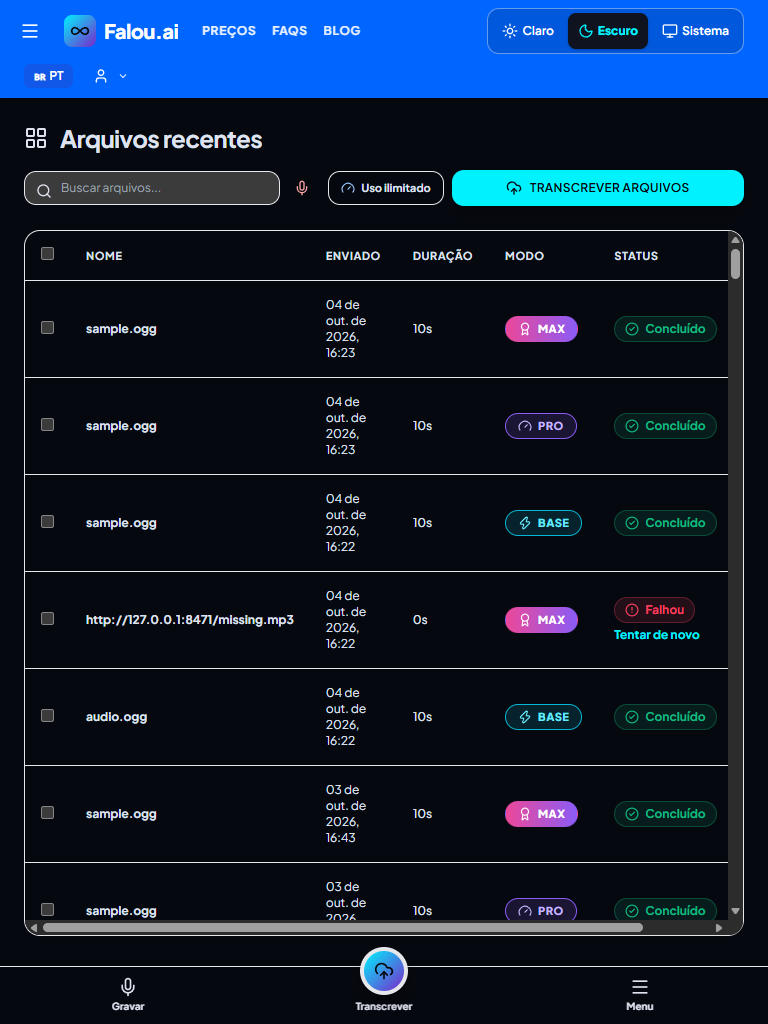
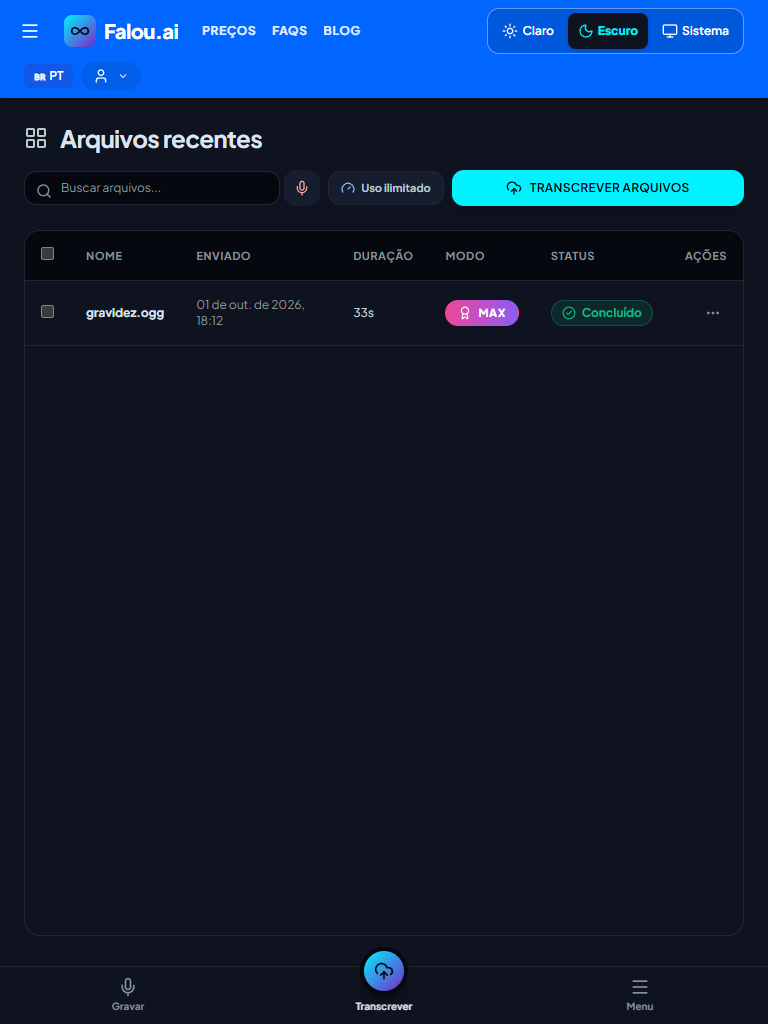
fix(t-29): corrige colors duplicado no tailwind config (menus transparentes), menu do usuario por clique/toque, suite auto-limpa transcricoes de teste

diff --git a/tests/diag_ui_break.js b/tests/diag_ui_break.js
@@ -1,0 +1,96 @@
+// Diagnóstico do bug reportado: menus transparentes / cliques não abrem.
+// Carrega /app, captura erros de console, testa cliques nos menus e mede
+// o fundo computado do dropdown do usuário e de outros painéis.
+const path = require('path');
+const { spawn } = require('child_process');
+const fs = require('fs');
+
+const BASE = 'http://localhost:3000';
+const DEBUG = 'http://localhost:9334';
+const ADMIN_PASSWORD = process.env.ADMIN_PASSWORD || 'admin123';
+const EDGE = 'C:/Program Files (x86)/Microsoft/Edge/Application/msedge.exe';
+const sleep = ms => new Promise(r => setTimeout(r, ms));
+
+async function main() {
+  const loginRes = await fetch(`${BASE}/api/auth/login`, {
+    method: 'POST', headers: { 'Content-Type': 'application/json' },
+    body: JSON.stringify({ email: 'admin@turboscribe.local', password: ADMIN_PASSWORD })
+  });
+  const { token } = await loginRes.json();
+  if (!token) throw new Error('login falhou');
+
+  const edge = spawn(EDGE, ['--headless=new', '--remote-debugging-port=9334', '--user-data-dir=' + path.join(__dirname, '..', '.edge-diag-profile'), '--no-first-run', 'about:blank'], { stdio: 'ignore' });
+  let targets;
+  for (let i = 0; i < 40; i++) {
+    try { targets = await (await fetch(`${DEBUG}/json/list`)).json(); if (targets && targets.length) break; } catch (_) {}
+    await sleep(500);
+  }
+  const page = targets.find(t => t.type === 'page');
+  const ws = new WebSocket(page.webSocketDebuggerUrl);
+  await new Promise((res, rej) => { ws.onopen = res; ws.onerror = rej; });
+  let seq = 0; const pending = new Map(); const consoleMsgs = [];
+  ws.onmessage = ev => {
+    const m = JSON.parse(ev.data);
+    if (m.id && pending.has(m.id)) { pending.get(m.id)(m); pending.delete(m.id); }
+    if (m.method === 'Runtime.consoleAPICalled' && (m.params.type === 'error' || m.params.type === 'warning'))
+      consoleMsgs.push(m.params.type + ': ' + m.params.args.map(a => a.value || a.description || '').join(' '));
+    if (m.method === 'Runtime.exceptionThrown')
+      consoleMsgs.push('EXCEPTION: ' + JSON.stringify(m.params.exceptionDetails.exception?.description || m.params.exceptionDetails.text));
+  };
+  const send = (method, params = {}) => new Promise(res => { const id = ++seq; pending.set(id, res); ws.send(JSON.stringify({ id, method, params })); });
+  const evalJs = async (expr) => {
+    const r = await send('Runtime.evaluate', { expression: expr, awaitPromise: true, returnByValue: true });
+    if (r.result && r.result.exceptionDetails) return 'ERRO-JS: ' + JSON.stringify(r.result.exceptionDetails.exception?.description || r.result.exceptionDetails.text);
+    return r.result && r.result.result ? r.result.result.value : undefined;
+  };
+  await send('Page.enable'); await send('Runtime.enable');
+
+  // SEM tema forçado (como o usuário usa) e COM tema claro, como no screenshot
+  for (const theme of ['light', 'dark']) {
+    await send('Emulation.setDeviceMetricsOverride', { width: 1280, height: 800, deviceScaleFactor: 1, mobile: false });
+    await send('Page.navigate', { url: `${BASE}/app?nocache=${Date.now()}` });
+    await sleep(2500);
+    await evalJs(`localStorage.setItem('turboscribe_token', ${JSON.stringify(token)}); localStorage.setItem('transcreveai_theme', '${theme}'); location.reload(); 'ok'`);
+    await sleep(3500);
+
+    const diag = await evalJs(`(() => {
+      const drop = document.querySelector('#user-menu-btn')?.closest('.group')?.querySelector('.absolute');
+      const cs = drop ? getComputedStyle(drop) : null;
+      const sidebar = document.getElementById('app-sidebar');
+      const cssOk = getComputedStyle(document.documentElement).getPropertyValue('--surface').trim();
+      const rows = document.querySelectorAll('#transcriptions-tbody tr').length;
+      const cards = document.querySelectorAll('#transcriptions-cards > div').length;
+      return {
+        tema: document.documentElement.classList.contains('dark') ? 'dark' : 'light',
+        cssVarsOk: cssOk || 'VAZIO',
+        dropdownBg: cs ? cs.backgroundColor : 'nao-achou-dropdown',
+        dropdownDisplay: cs ? cs.display : '-',
+        sidebarExiste: !!sidebar,
+        linhasTabela: rows, cardsMobile: cards,
+        jsOk: typeof openSidebar === 'function' && typeof showView === 'function' && typeof openTranscribeModal === 'function',
+        lucideOk: typeof lucide !== 'undefined'
+      };
+    })()`);
+    console.log(`[${theme}]`, JSON.stringify(diag, null, 1));
+
+    // testa cliques reais
+    const clickTest = await evalJs(`(() => {
+      const out = {};
+      try { document.getElementById('user-menu-btn').click(); out.userMenuClick = 'ok'; } catch (e) { out.userMenuClick = e.message; }
+      const drop = document.querySelector('#user-menu-btn')?.closest('.group')?.querySelector('.absolute');
+      out.dropVisibleAfterClick = drop ? getComputedStyle(drop).display : 'nao-achou';
+      try { openSidebar(); out.openSidebar = 'ok'; } catch (e) { out.openSidebar = 'ERR ' + e.message; }
+      const sb = document.getElementById('app-sidebar');
+      out.sidebarState = sb ? sb.className.slice(0, 80) : 'nao-achou';
+      try { showView('admin'); out.showViewAdmin = document.getElementById('view-admin')?.classList.contains('hidden') ? 'oculto' : 'visivel'; } catch (e) { out.showViewAdmin = 'ERR ' + e.message; }
+      try { showView('dashboard'); } catch (_) {}
+      return out;
+    })()`);
+    console.log(`[${theme}] cliques:`, JSON.stringify(clickTest, null, 1));
+  }
+
+  console.log('--- console errors/warnings ---');
+  consoleMsgs.slice(0, 15).forEach(m => console.log(m));
+  ws.close(); edge.kill(); console.log('DONE'); process.exit(0);
+}
+main().catch(e => { console.error('ERRO:', e.message); process.exit(1); });

diff --git a/tests/diag_hover.js b/tests/diag_hover.js
@@ -1,0 +1,65 @@
+// Diagnóstico 2: hover real no menu do usuário (Input.dispatchMouseEvent),
+// mede fundo computado e tira screenshot. Também testa toque no mobile.
+const path = require('path');
+const { spawn } = require('child_process');
+const BASE = 'http://localhost:3000';
+const DEBUG = 'http://localhost:9334';
+const ADMIN_PASSWORD = process.env.ADMIN_PASSWORD || 'admin123';
+const EDGE = 'C:/Program Files (x86)/Microsoft/Edge/Application/msedge.exe';
+const sleep = ms => new Promise(r => setTimeout(r, ms));
+
+async function main() {
+  const loginRes = await fetch(`${BASE}/api/auth/login`, {
+    method: 'POST', headers: { 'Content-Type': 'application/json' },
+    body: JSON.stringify({ email: 'admin@turboscribe.local', password: ADMIN_PASSWORD })
+  });
+  const { token } = await loginRes.json();
+  if (!token) throw new Error('login falhou');
+
+  const edge = spawn(EDGE, ['--headless=new', '--remote-debugging-port=9334', '--user-data-dir=' + path.join(__dirname, '..', '.edge-diag2-profile'), '--no-first-run', 'about:blank'], { stdio: 'ignore' });
+  let targets;
+  for (let i = 0; i < 40; i++) {
+    try { targets = await (await fetch(`${DEBUG}/json/list`)).json(); if (targets && targets.length) break; } catch (_) {}
+    await sleep(500);
+  }
+  const page = targets.find(t => t.type === 'page');
+  const ws = new WebSocket(page.webSocketDebuggerUrl);
+  await new Promise((res, rej) => { ws.onopen = res; ws.onerror = rej; });
+  let seq = 0; const pending = new Map();
+  ws.onmessage = ev => { const m = JSON.parse(ev.data); if (m.id && pending.has(m.id)) { pending.get(m.id)(m); pending.delete(m.id); } };
+  const send = (method, params = {}) => new Promise(res => { const id = ++seq; pending.set(id, res); ws.send(JSON.stringify({ id, method, params })); });
+  const evalJs = async (expr) => {
+    const r = await send('Runtime.evaluate', { expression: expr, awaitPromise: true, returnByValue: true });
+    if (r.result && r.result.exceptionDetails) return 'ERRO-JS: ' + (r.result.exceptionDetails.exception?.description || r.result.exceptionDetails.text);
+    return r.result && r.result.result ? r.result.result.value : undefined;
+  };
+  const shot = async (name) => {
+    const r = await send('Page.captureScreenshot', { format: 'png' });
+    require('fs').writeFileSync(path.join(__dirname, '..', 'docs', 'screenshots', name), Buffer.from(r.result.data, 'base64'));
+    console.log('salvo:', name);
+  };
+  await send('Page.enable'); await send('Runtime.enable');
+
+  await send('Emulation.setDeviceMetricsOverride', { width: 1280, height: 800, deviceScaleFactor: 1, mobile: false });
+  await send('Page.navigate', { url: `${BASE}/app?nocache=${Date.now()}` });
+  await sleep(2500);
+  await evalJs(`localStorage.setItem('turboscribe_token', ${JSON.stringify(token)}); localStorage.setItem('transcreveai_theme', 'light'); location.reload(); 'ok'`);
+  await sleep(3500);
+
+  // posição do botão do menu
+  const rect = await evalJs(`(() => { const b = document.getElementById('user-menu-btn').getBoundingClientRect(); return { x: b.x + b.width / 2, y: b.y + b.height / 2 }; })()`);
+  console.log('btn em', JSON.stringify(rect));
+  // hover real
+  await send('Input.dispatchMouseEvent', { type: 'mouseMoved', x: rect.x, y: rect.y });
+  await sleep(1200);
+  const st = await evalJs(`(() => {
+    const drop = document.querySelector('#user-menu-btn').closest('.group').querySelector('.absolute');
+    const cs = getComputedStyle(drop);
+    return { display: cs.display, bg: cs.backgroundColor, hasClassBg: drop.className.includes('bg-brand-surface'), classes: drop.className };
+  })()`);
+  console.log('dropdown no hover:', JSON.stringify(st, null, 1));
+  await shot('diag-hover-usermenu.png');
+
+  ws.close(); edge.kill(); console.log('DONE'); process.exit(0);
+}
+main().catch(e => { console.error('ERRO:', e.message); process.exit(1); });

diff --git a/tests/diag_css_rule.js b/tests/diag_css_rule.js
@@ -1,0 +1,56 @@
+// Diagnóstico 3: inspeciona a regra .bg-brand-surface gerada pelo Tailwind CDN.
+const path = require('path');
+const { spawn } = require('child_process');
+const BASE = 'http://localhost:3000';
+const DEBUG = 'http://localhost:9334';
+const ADMIN_PASSWORD = process.env.ADMIN_PASSWORD || 'admin123';
+const EDGE = 'C:/Program Files (x86)/Microsoft/Edge/Application/msedge.exe';
+const sleep = ms => new Promise(r => setTimeout(r, ms));
+
+async function main() {
+  const loginRes = await fetch(`${BASE}/api/auth/login`, {
+    method: 'POST', headers: { 'Content-Type': 'application/json' },
+    body: JSON.stringify({ email: 'admin@turboscribe.local', password: ADMIN_PASSWORD })
+  });
+  const { token } = await loginRes.json();
+  const edge = spawn(EDGE, ['--headless=new', '--remote-debugging-port=9334', '--user-data-dir=' + path.join(__dirname, '..', '.edge-diag3-profile'), '--no-first-run', 'about:blank'], { stdio: 'ignore' });
+  let targets;
+  for (let i = 0; i < 40; i++) {
+    try { targets = await (await fetch(`${DEBUG}/json/list`)).json(); if (targets && targets.length) break; } catch (_) {}
+    await sleep(500);
+  }
+  const page = targets.find(t => t.type === 'page');
+  const ws = new WebSocket(page.webSocketDebuggerUrl);
+  await new Promise((res, rej) => { ws.onopen = res; ws.onerror = rej; });
+  let seq = 0; const pending = new Map();
+  ws.onmessage = ev => { const m = JSON.parse(ev.data); if (m.id && pending.has(m.id)) { pending.get(m.id)(m); pending.delete(m.id); } };
+  const send = (method, params = {}) => new Promise(res => { const id = ++seq; pending.set(id, res); ws.send(JSON.stringify({ id, method, params })); });
+  const evalJs = async (expr) => {
+    const r = await send('Runtime.evaluate', { expression: expr, awaitPromise: true, returnByValue: true });
+    if (r.result && r.result.exceptionDetails) return 'ERRO: ' + (r.result.exceptionDetails.exception?.description || '');
+    return r.result && r.result.result ? r.result.result.value : undefined;
+  };
+  await send('Page.enable'); await send('Runtime.enable');
+  await send('Emulation.setDeviceMetricsOverride', { width: 1280, height: 800, deviceScaleFactor: 1, mobile: false });
+  await send('Page.navigate', { url: `${BASE}/app?nocache=${Date.now()}` });
+  await sleep(2500);
+  await evalJs(`localStorage.setItem('turboscribe_token', ${JSON.stringify(token)}); location.reload(); 'ok'`);
+  await sleep(4000);
+
+  const rules = await evalJs(`(() => {
+    const out = [];
+    for (const sheet of document.styleSheets) {
+      let rules;
+      try { rules = sheet.cssRules; } catch (e) { continue; }
+      for (const r of rules) {
+        if (r.selectorText && /brand-surface|brand-canvas/.test(r.selectorText) && !r.selectorText.includes('hover') && !r.selectorText.includes('dark')) {
+          out.push(r.cssText.slice(0, 200));
+        }
+      }
+    }
+    return out.slice(0, 10);
+  })()`);
+  console.log(JSON.stringify(rules, null, 1));
+  ws.close(); edge.kill(); process.exit(0);
+}
+main().catch(e => { console.error('ERRO:', e.message); process.exit(1); });

diff --git a/test_suite.js b/test_suite.js
@@ -355,6 +355,10 @@ async function runTestSuite() {
       res.end('not found');
     }
   });
+  // IDs de transcrições criadas pela suíte — deletadas no final para não
+  // poluir o dashboard do admin (acumulavam ~4 arquivos por execução)
+  const createdTranscriptionIds = [];
+
   await new Promise(r => mockServer.listen(8471, '127.0.0.1', r));
 
   try {
@@ -368,6 +372,7 @@ async function runTestSuite() {
     assert(okRes.status === 202 && okData.data && okData.data[0] && okData.data[0].status === 'pending',
       `POST /api/transcribe/url enfileirou o link (status: ${okRes.status})`);
     if (okData.data && okData.data[0]) {
+      createdTranscriptionIds.push(okData.data[0].id);
       const finalStatus = await waitForCompletion(okData.data[0].id, 120000);
       assert(finalStatus === 'completed', `Transcrição por URL concluiu (status: ${finalStatus})`);
       const row = await getAsync(`SELECT file_name, raw_text FROM transcriptions WHERE id = ?`, [okData.data[0].id]);
@@ -385,6 +390,7 @@ async function runTestSuite() {
     assert(failRes.status === 202 && failData.data && failData.data[0] && failData.data[0].status === 'failed' && failData.data[0].error_message,
       `Falha de download virou linha 'failed' com error_message (status: ${failRes.status})`);
     if (failData.data && failData.data[0]) {
+      createdTranscriptionIds.push(failData.data[0].id);
       const frow = await getAsync(`SELECT status, error_message FROM transcriptions WHERE id = ?`, [failData.data[0].id]);
       assert(frow && frow.status === 'failed' && /404/.test(frow.error_message || ''),
         `error_message persiste no banco com a causa (${frow && frow.error_message})`);
@@ -514,8 +520,6 @@ async function runTestSuite() {
     { mode: 'pro', label: 'Nível 2 - Pro' },
     { mode: 'max', label: 'Nível 3 - Max' }
   ];
-
-  const createdTranscriptionIds = [];
 
   for (const m of modes) {
     try {
@@ -914,6 +918,19 @@ async function runTestSuite() {
   try {
     await runAsync(`DELETE FROM users WHERE email = 'suite-user@test.local'`);
   } catch (e) { /* usuário já removido ou ausente */ }
+
+  // Limpar transcrições criadas pela suíte (dashboard do admin fica limpo)
+  for (const tid of createdTranscriptionIds) {
+    try {
+      await fetch(`${BASE_URL}/api/transcriptions/${tid}`, {
+        method: 'DELETE',
+        headers: { 'Authorization': `Bearer ${adminToken}` }
+      });
+    } catch (_) { /* melhor esforço */ }
+  }
+  if (createdTranscriptionIds.length) {
+    console.log(`🧹 Suíte removeu ${createdTranscriptionIds.length} transcrição(ões) de teste.`);
+  }
 
   console.log('\n=======================================================');
   console.log(`📊 RESULTADO FINAL: ${passedTests}/${totalTests} TESTES PASSARAM COM SUCESSO!`);

diff --git a/index.html b/index.html
@@ -114,17 +114,15 @@
               line: 'rgb(var(--line) / <alpha-value>)',
               accent: 'rgb(var(--accent) / <alpha-value>)',
               accentSoft: 'rgb(var(--accent-soft) / <alpha-value>)'
-            }
-          },
-          fontFamily: { sans: ['"Plus Jakarta Sans"', 'Inter', 'sans-serif'] },
-          borderRadius: { '4xl': '2rem' },
-          colors: {
+            },
             wave: {
               cyan: '#00F2FE', cyanDark: '#00A6B0', violet: '#7928CA',
               emerald: '#10B981', amber: '#F59E0B', coral: '#F43F5E',
               magenta: '#EC4899', electric: '#8B5CF6', velocity: '#06B6D4'
             }
-          }
+          },
+          fontFamily: { sans: ['"Plus Jakarta Sans"', 'Inter', 'sans-serif'] },
+          borderRadius: { '4xl': '2rem' }
         }
       }
     }
@@ -206,15 +204,16 @@
         <span>PT</span>
       </div>
 
-      <!-- Menu do Usuário / Admin -->
+      <!-- Menu do Usuário / Admin — T-29 F3: abre por clique/toque (o
+           group-hover puro não funciona em touch); hover continua no desktop -->
       <div class="relative group">
-        <button id="user-menu-btn" class="flex items-center space-x-2 text-xs font-medium bg-brand-surface/10 dark:bg-brand-surface/10 hover:bg-brand-surface/20 dark:hover:bg-brand-surface/20 px-3 py-1.5 rounded-full transition">
+        <button id="user-menu-btn" onclick="toggleUserMenu(event)" class="flex items-center space-x-2 text-xs font-medium bg-brand-surface/10 dark:bg-brand-surface/10 hover:bg-brand-surface/20 dark:hover:bg-brand-surface/20 px-3 py-1.5 rounded-full transition">
           <i data-lucide="user" class="w-4 h-4"></i>
           <span id="current-user-email" class="hidden lg:inline">pedro.leon23@gmail.com</span>
           <i data-lucide="chevron-down" class="w-3 h-3"></i>
         </button>
 
-        <div class="hidden group-hover:block absolute right-0 mt-1 w-64 bg-brand-surface dark:bg-brand-surface text-brand-ink dark:text-brand-ink text-sm rounded-xl shadow-xl border border-brand-line dark:border-brand-line overflow-hidden z-50">
+        <div id="user-menu-panel" class="hidden group-hover:block absolute right-0 mt-1 w-64 bg-brand-surface dark:bg-brand-surface text-brand-ink dark:text-brand-ink text-sm rounded-xl shadow-xl border border-brand-line dark:border-brand-line overflow-hidden z-50">
           <div class="p-3 border-b border-brand-line dark:border-brand-line bg-brand-canvas dark:bg-brand-canvas">
             <p class="font-bold text-xs text-brand-muted dark:text-brand-muted uppercase">Sessão Atual</p>
             <p id="user-dropdown-name" class="font-semibold text-brand-ink dark:text-brand-ink text-sm truncate">Pedro León</p>

diff --git a/tests/cleanup_test_artifacts.js b/tests/cleanup_test_artifacts.js
@@ -1,0 +1,30 @@
+// Limpeza one-shot: remove transcrições de teste (sample.ogg/audio.ogg/missing.mp3)
+// que a suíte acumulou no dashboard do admin antes da limpeza automática existir.
+// Uso: node tests/cleanup_test_artifacts.js
+const BASE = 'http://localhost:3000';
+const ADMIN_PASSWORD = process.env.ADMIN_PASSWORD || 'admin123';
+
+async function main() {
+  const loginRes = await fetch(`${BASE}/api/auth/login`, {
+    method: 'POST', headers: { 'Content-Type': 'application/json' },
+    body: JSON.stringify({ email: 'admin@turboscribe.local', password: ADMIN_PASSWORD })
+  });
+  const { token } = await loginRes.json();
+  if (!token) throw new Error('login falhou');
+
+  const listRes = await fetch(`${BASE}/api/transcriptions?limit=500`, { headers: { Authorization: `Bearer ${token}` } });
+  const items = await listRes.json();
+  const junk = (Array.isArray(items) ? items : items.data || []).filter(t =>
+    /^sample.*\.ogg$/i.test(t.file_name) || t.file_name === 'audio.ogg' || /missing\.mp3$/i.test(t.file_name)
+  );
+  console.log(`total no dashboard: ${(Array.isArray(items) ? items : items.data || []).length} | lixo de teste: ${junk.length}`);
+
+  let removed = 0;
+  for (const t of junk) {
+    const r = await fetch(`${BASE}/api/transcriptions/${t.id}`, { method: 'DELETE', headers: { Authorization: `Bearer ${token}` } });
+    if (r.ok) removed++;
+    else console.log('falhou:', t.id, r.status);
+  }
+  console.log(`removidas: ${removed}`);
+}
+main().catch(e => { console.error('ERRO:', e.message); process.exit(1); });

diff --git a/app.js b/app.js
@@ -733,6 +733,21 @@ function renderProjectsSidebar() {
 // HELPERS DE UI — T-29 F2 (Obsidian Wave)
 // uiToast: notificações (ex-alert) · uiPrompt: diálogo de entrada (ex-prompt)
 // ---------------------------------------------------
+// T-29 F3: menu do usuário abre por clique/toque (group-hover não existe em
+// touch); fecha ao clicar fora ou em um item do menu.
+function toggleUserMenu(e) {
+  if (e) e.stopPropagation();
+  const panel = document.getElementById('user-menu-panel');
+  if (panel) panel.classList.toggle('hidden');
+}
+document.addEventListener('click', (e) => {
+  const panel = document.getElementById('user-menu-panel');
+  if (panel && !panel.classList.contains('hidden') &&
+      !e.target.closest('#user-menu-panel') && !e.target.closest('#user-menu-btn')) {
+    panel.classList.add('hidden');
+  }
+});
+
 function uiToast(message, type) {
   if (typeof document === 'undefined' || !document.body) return;
   let host = document.getElementById('ui-toast-host');
